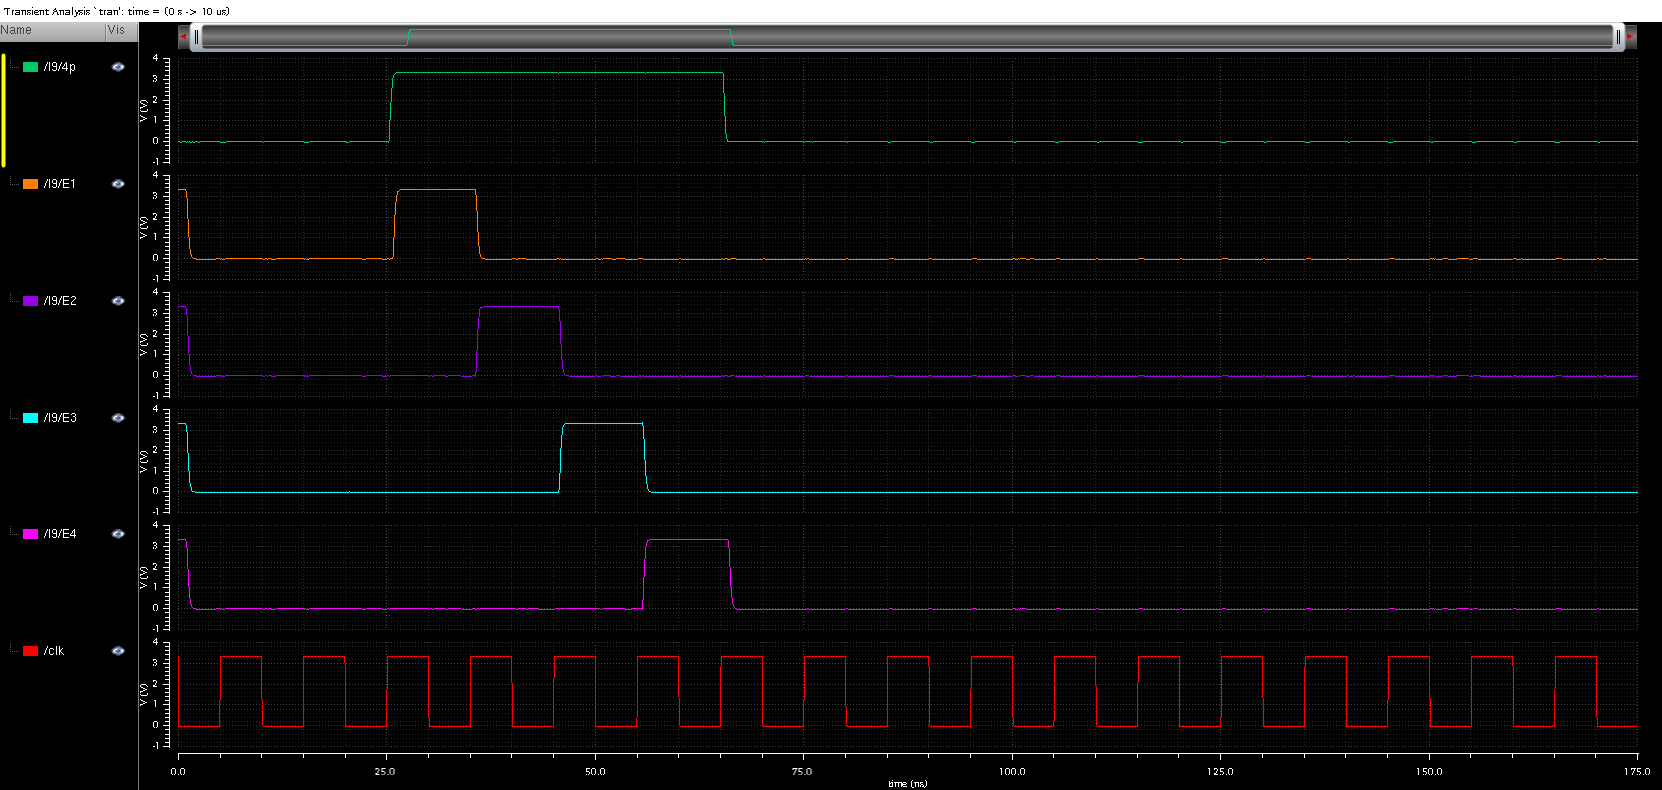
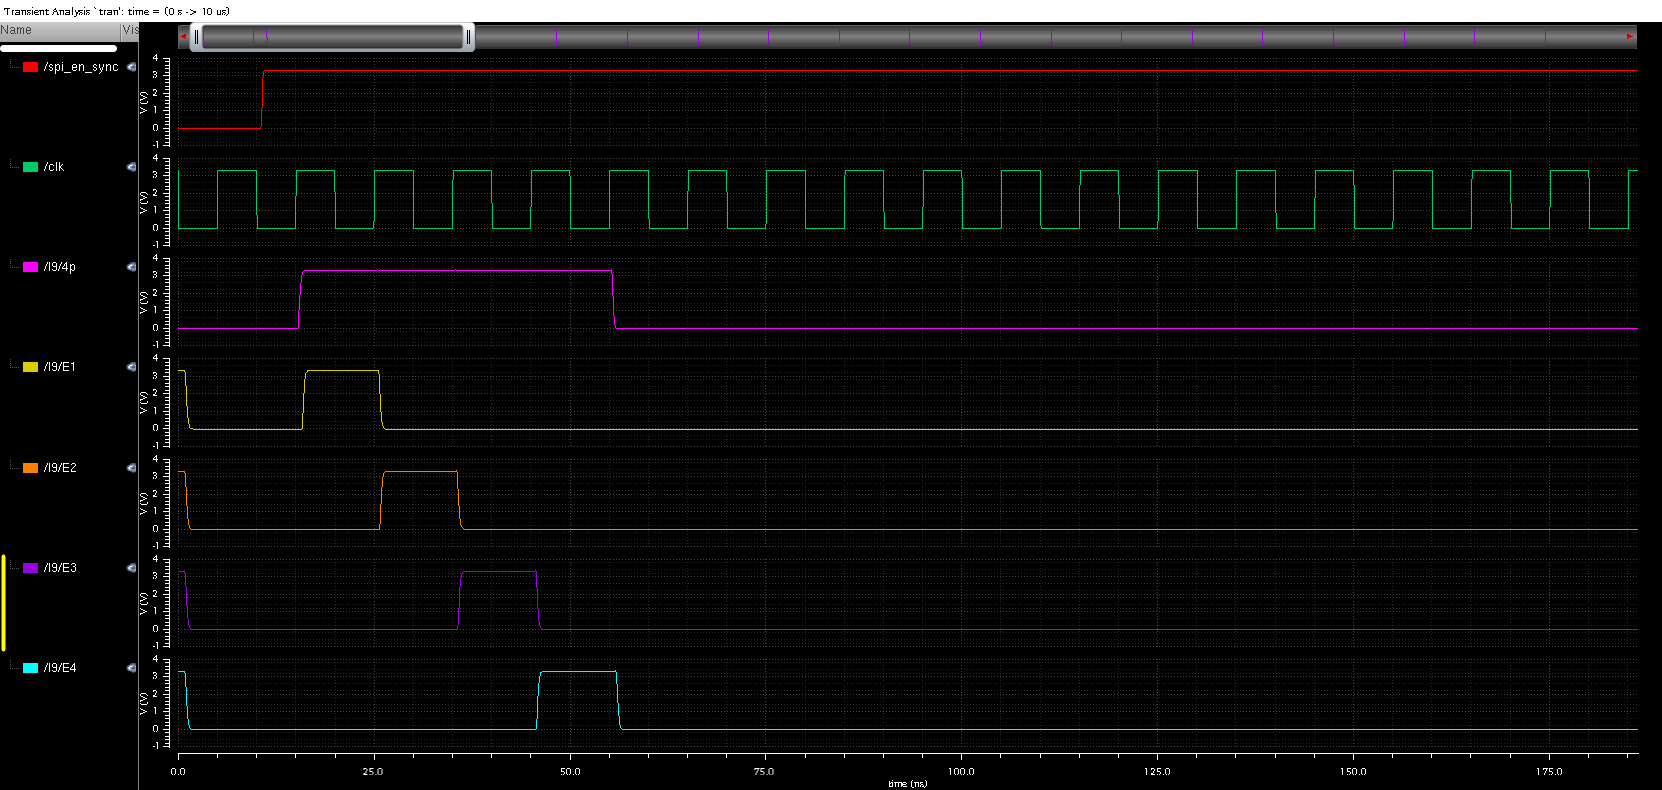
Updated simulation image.

diff --git a/dokumentation/transistor_level_design_report/tex/simulation_results.tex b/dokumentation/transistor_level_design_report/tex/simulation_results.tex
@@ -16,8 +16,7 @@ The critical parts of this module are the events after a transition on the spi e
 
 
 
-In the image spi\_out\_control\_unbuffered a simulation of the behaviour when the SPI enable goes high. As can be seen, the four enable pulses are created correctly but they are very weak. This simulation shows the system before buffering the enable signals. \\
-In the image spi\_out\_control\_buffered a simulation of the system after buffering the signals can be seen.\\
+In the image spi\_out\_control a simulation of the behaviour when the SPI enable goes high. The simulation shows that the buffering of the signals successfully achieved satisfying rise and fall times For the enable signals.\\
 
 
 When spi enable goes low, the four enable signals are the same as the spi clock which can be seen in the image spi\_out\_control2. \\
